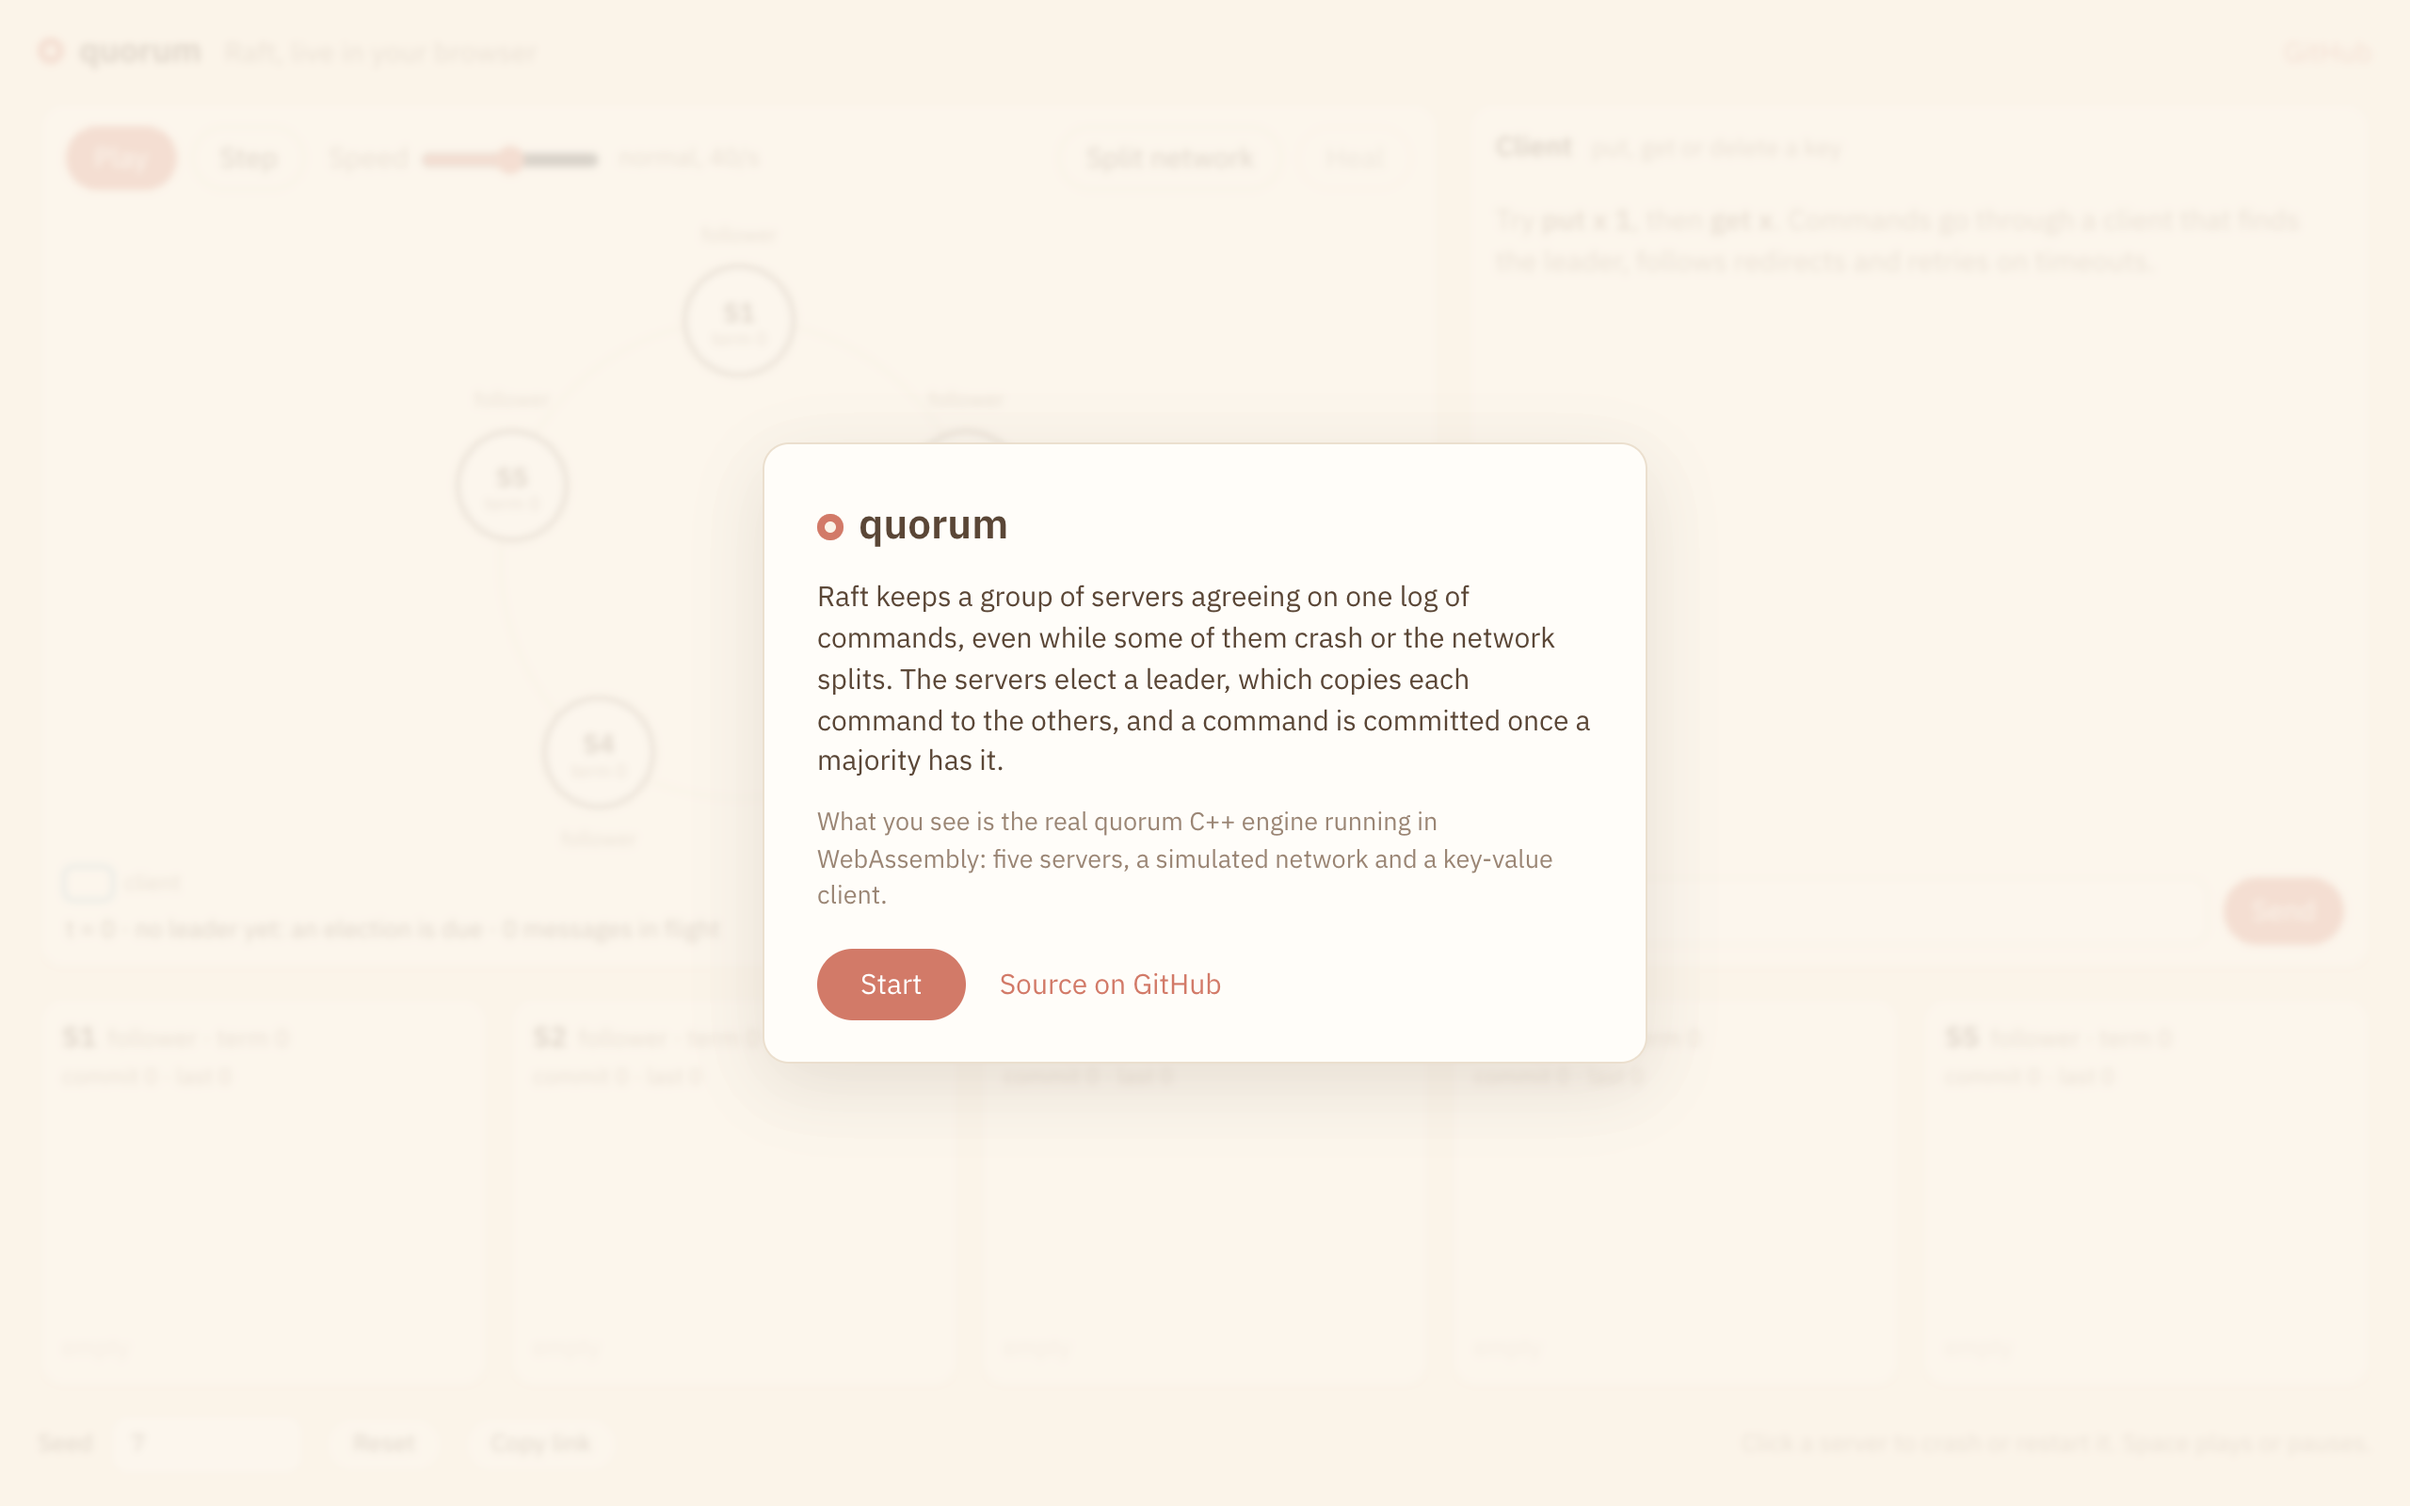
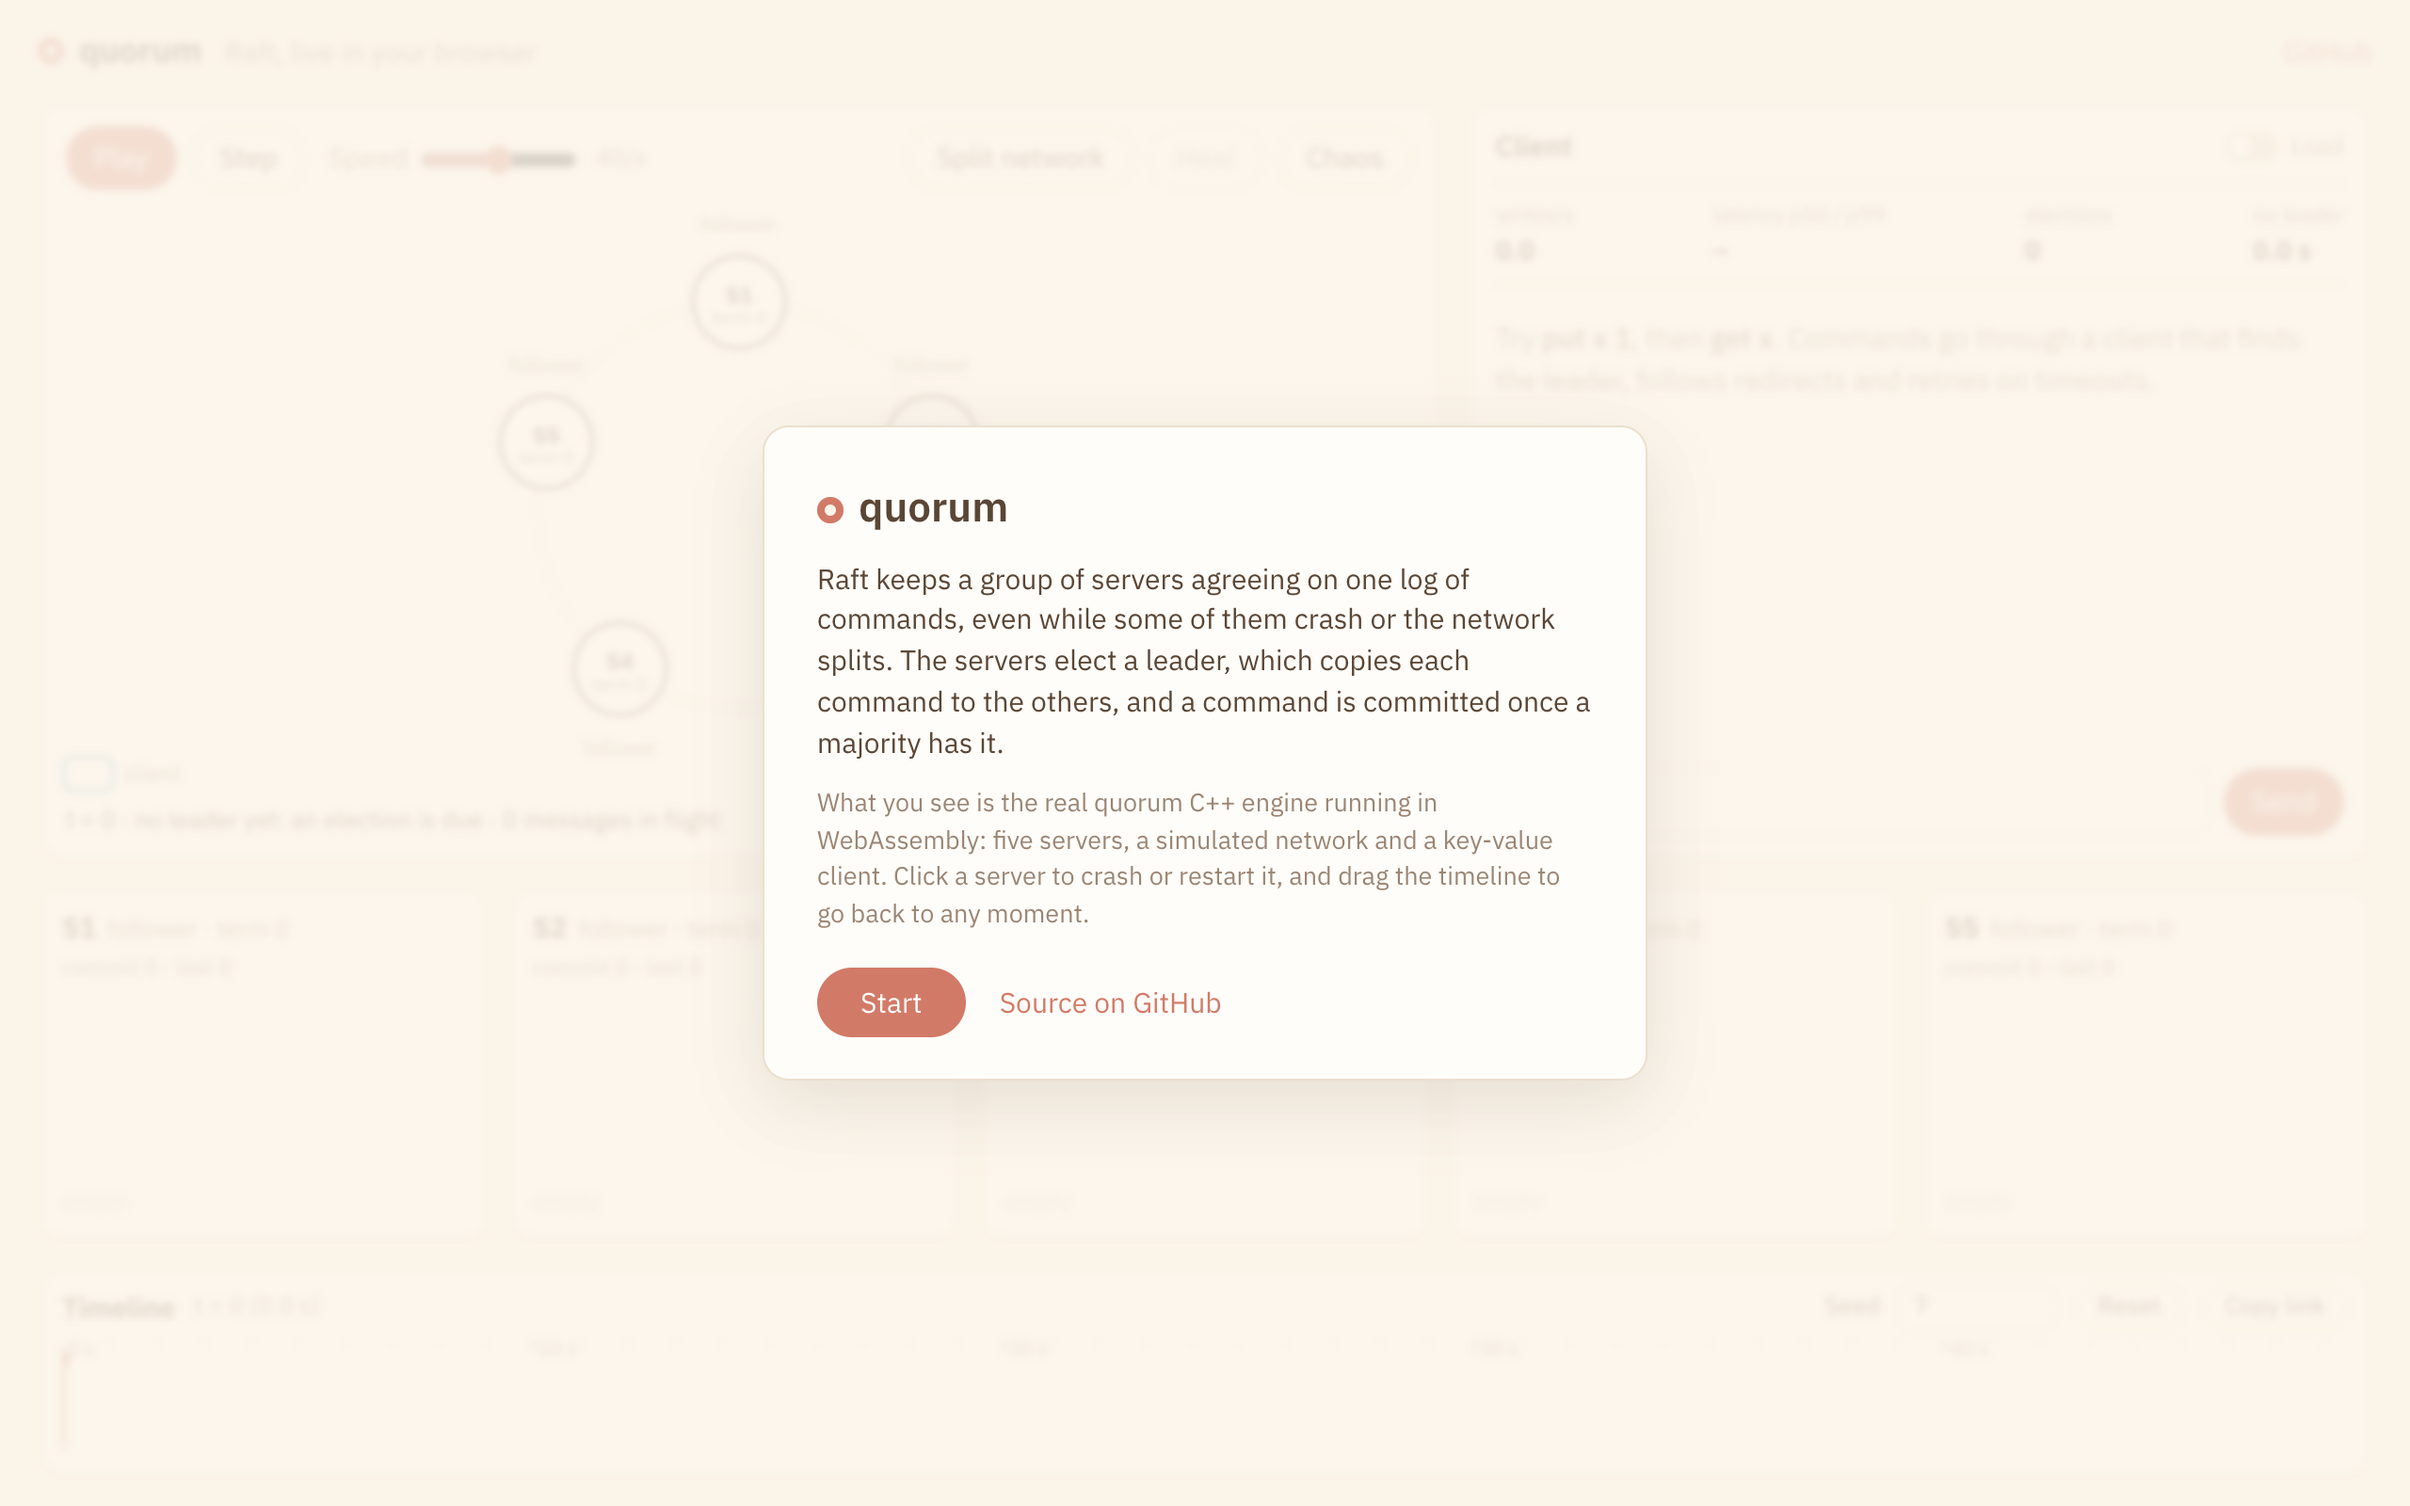
Update README, roadmap and screenshots for the finished visualizer
Refs #19

Changed region(s): [[0.3125, 0.2812, 0.6875, 0.7188], [0.9062, 0.5, 0.9688, 0.5625], [0.9062, 0.5938, 0.9688, 0.625]]

diff --git a/README.md b/README.md
@@ -11,7 +11,9 @@ A Raft-based replicated key-value store in C++20, tested with deterministic simu
 
 **Try it:** [pranaviguttikonda.github.io/quorum](https://pranaviguttikonda.github.io/quorum/) runs the real
 engine in your browser, compiled to WebAssembly. Crash servers, split the network and send
-commands while you watch elections, replication and commits happen.
+commands while you watch elections, replication and commits happen. Drag the timeline back
+to any earlier moment, or press Chaos for a minute of random failures under load, followed
+by a linearizability check of everything the clients saw.
 
 ![The visualizer during a network split](docs/screenshots/desktop-5-split.png)
 
@@ -70,7 +72,11 @@ python3 -m http.server -d build-web/site 8000  # then open http://localhost:8000
 ```
 
 A run's seed and every action you take are kept in the URL, so "Copy link" replays the run
-exactly. CI checks that the WebAssembly build prints the same scenario trace as the native
+exactly. The same recording drives the timeline: scrubbing back rebuilds the engine from the
+seed and replays the actions up to that tick, and a new action from there starts a new
+branch. The load generator and chaos mode run inside the engine on seeded streams, so they
+replay too. When chaos ends, the page runs the same linearizability checker as the fuzz tests
+on the whole client history. CI checks that the WebAssembly build prints the same scenario trace as the native
 build, then uses the page in headless Chrome (`scripts/web_smoke.mjs`). Pushes to `main`
 deploy it to GitHub Pages.
 

diff --git a/docs/VISION.md b/docs/VISION.md
@@ -35,7 +35,8 @@ replayed exactly from its seed.
 5. **Persistence** *(durable storage and crash recovery done; snapshots and log
    compaction not started)*: durable term, vote and log through a storage interface, a simulated
    disk with crash-consistency faults, and snapshots with log compaction.
-6. **Visualizer** *(current: a live browser view of the real engine in WebAssembly)*: export simulation traces and step through a run to see elections,
+6. **Visualizer** *(current: the real engine in WebAssembly, with a scrubbable timeline,
+   metrics, a load generator and a chaos mode checked for linearizability)*: export simulation traces and step through a run to see elections,
    replication and faults over time.
 7. **Benchmarks**: throughput and latency under varying cluster sizes, delays and loss
    rates, plus a real-network transport for comparison.
